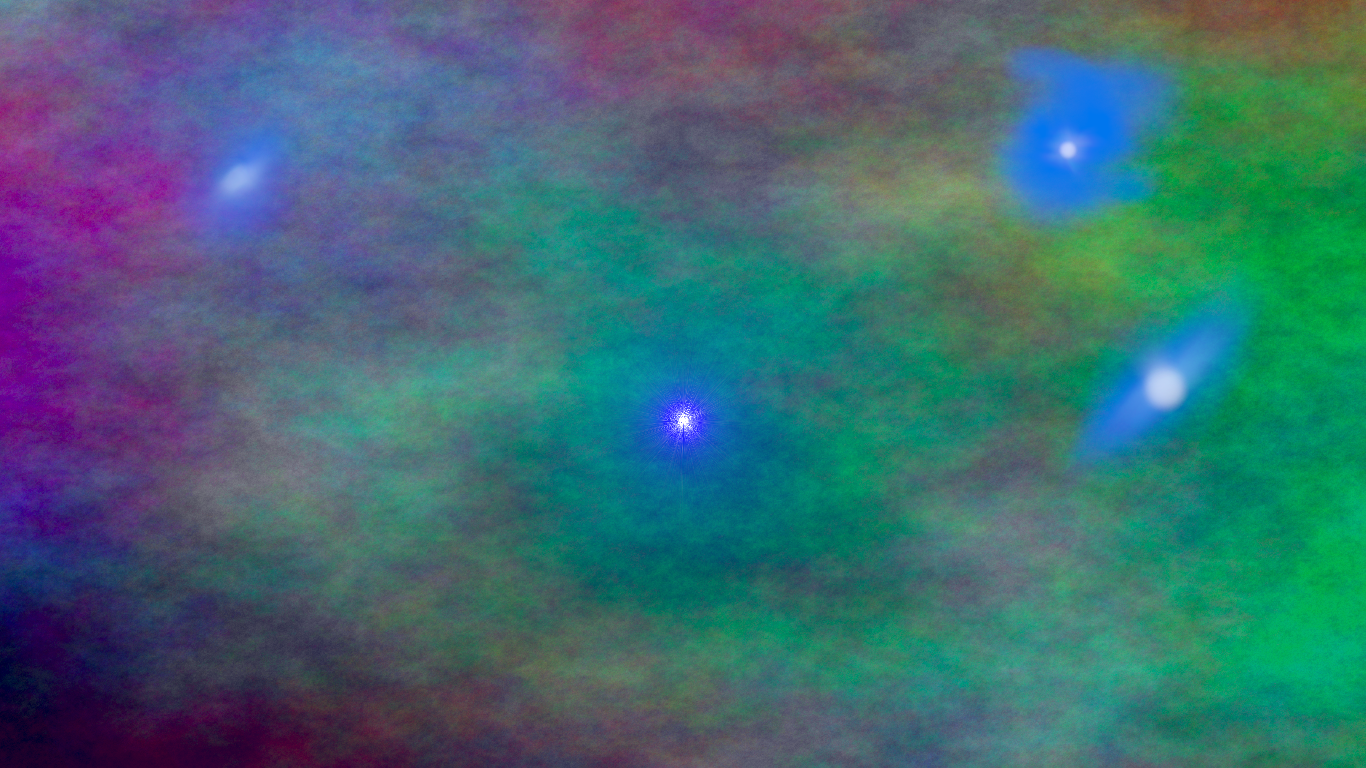
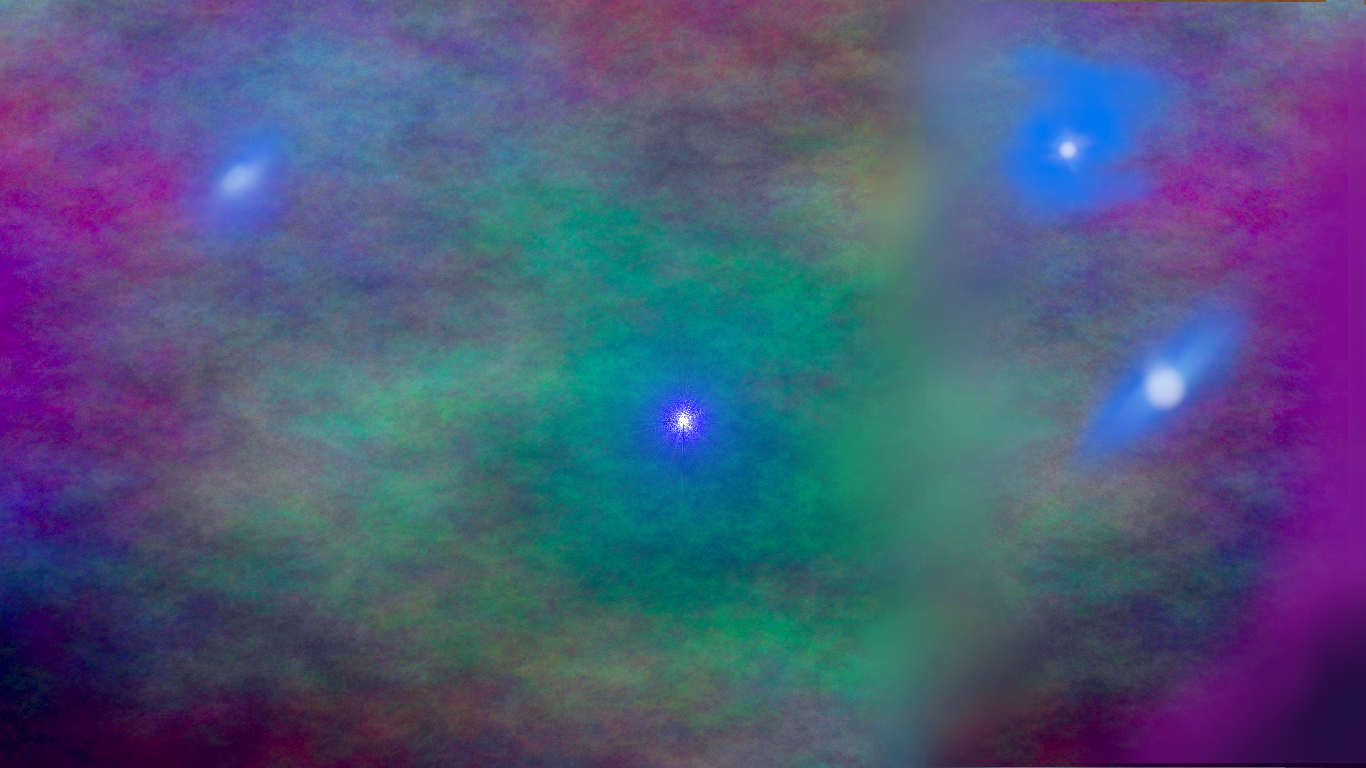
add the sky

Changed region(s): [[0.6149, 0.0, 1.0, 1.0]]

diff --git a/index.js b/index.js
@@ -55,6 +55,18 @@ rightWall.rotation.y = -Math.PI / 2;
 rightWall.position.set(5, 2, -2);
 scene.add(rightWall);
 
+// === Night Sky Sphere ===
+const skyTexture = new THREE.TextureLoader().load("nova_sky.png"); // Load night sky texture
+skyTexture.wrapS = THREE.RepeatWrapping; // Ensure texture wraps
+skyTexture.wrapT = THREE.RepeatWrapping;
+skyTexture.rotation = Math.PI; // Rotate the texture 180 degrees
+const skyMaterial = new THREE.MeshBasicMaterial({ map: skyTexture, side: THREE.BackSide }); // Inside-facing material
+const skyGeometry = new THREE.SphereGeometry(50, 64, 64); // Large sphere to surround the room
+const skySphere = new THREE.Mesh(skyGeometry, skyMaterial);
+// Rotate the sky sphere upside down so the seam is on top
+skySphere.rotation.y = Math.PI;
+scene.add(skySphere);
+
 // === Load Desk Model ===
 const loader = new GLTFLoader();
 let desk, gameSystem;
@@ -252,6 +264,10 @@ const clock = new THREE.Clock();
 function animate() {
     requestAnimationFrame(animate);
     updatePhysics()
+
+    if (skySphere) {
+        skySphere.rotation.y += 0.0005; // Adjust speed as needed
+    }
     controls.update();
     renderer.render(scene, camera);
 }
